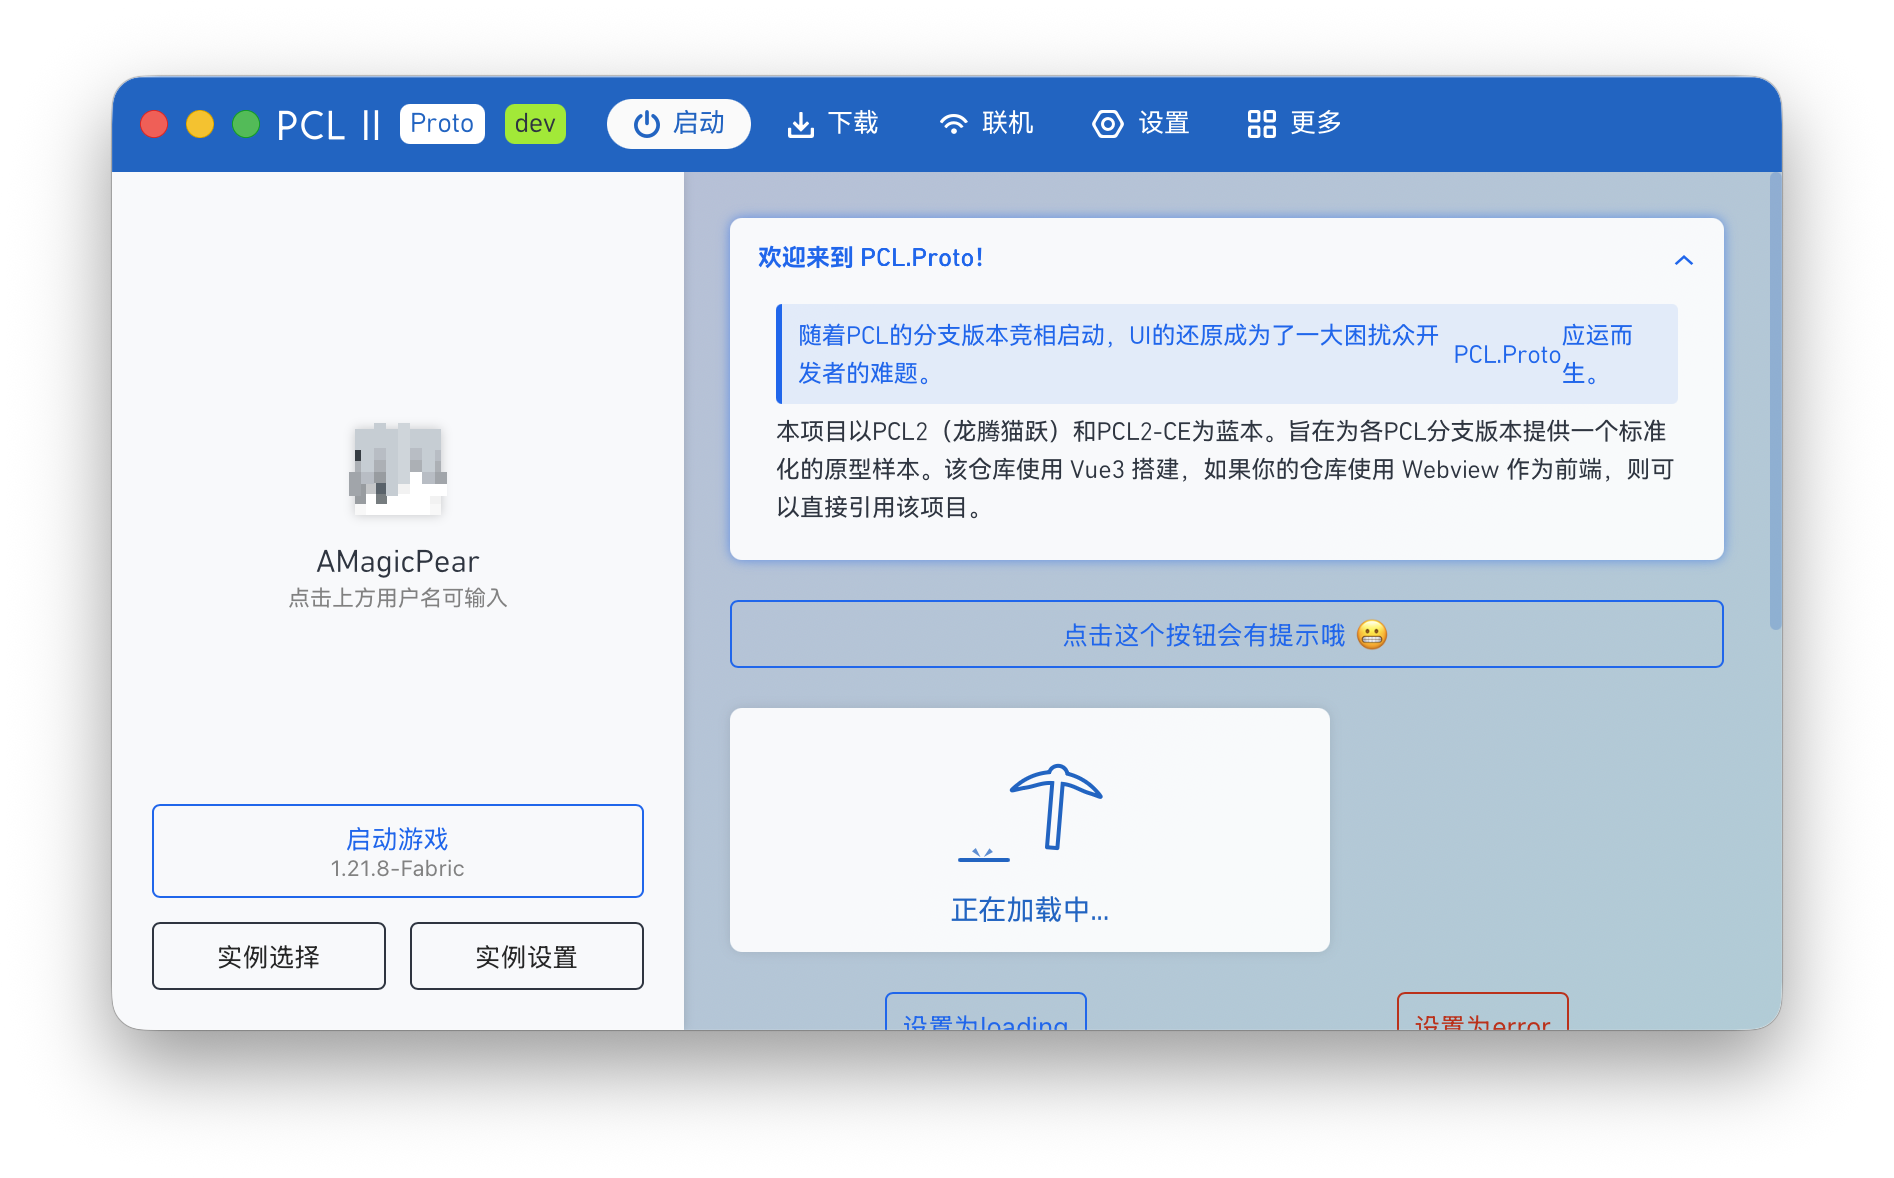
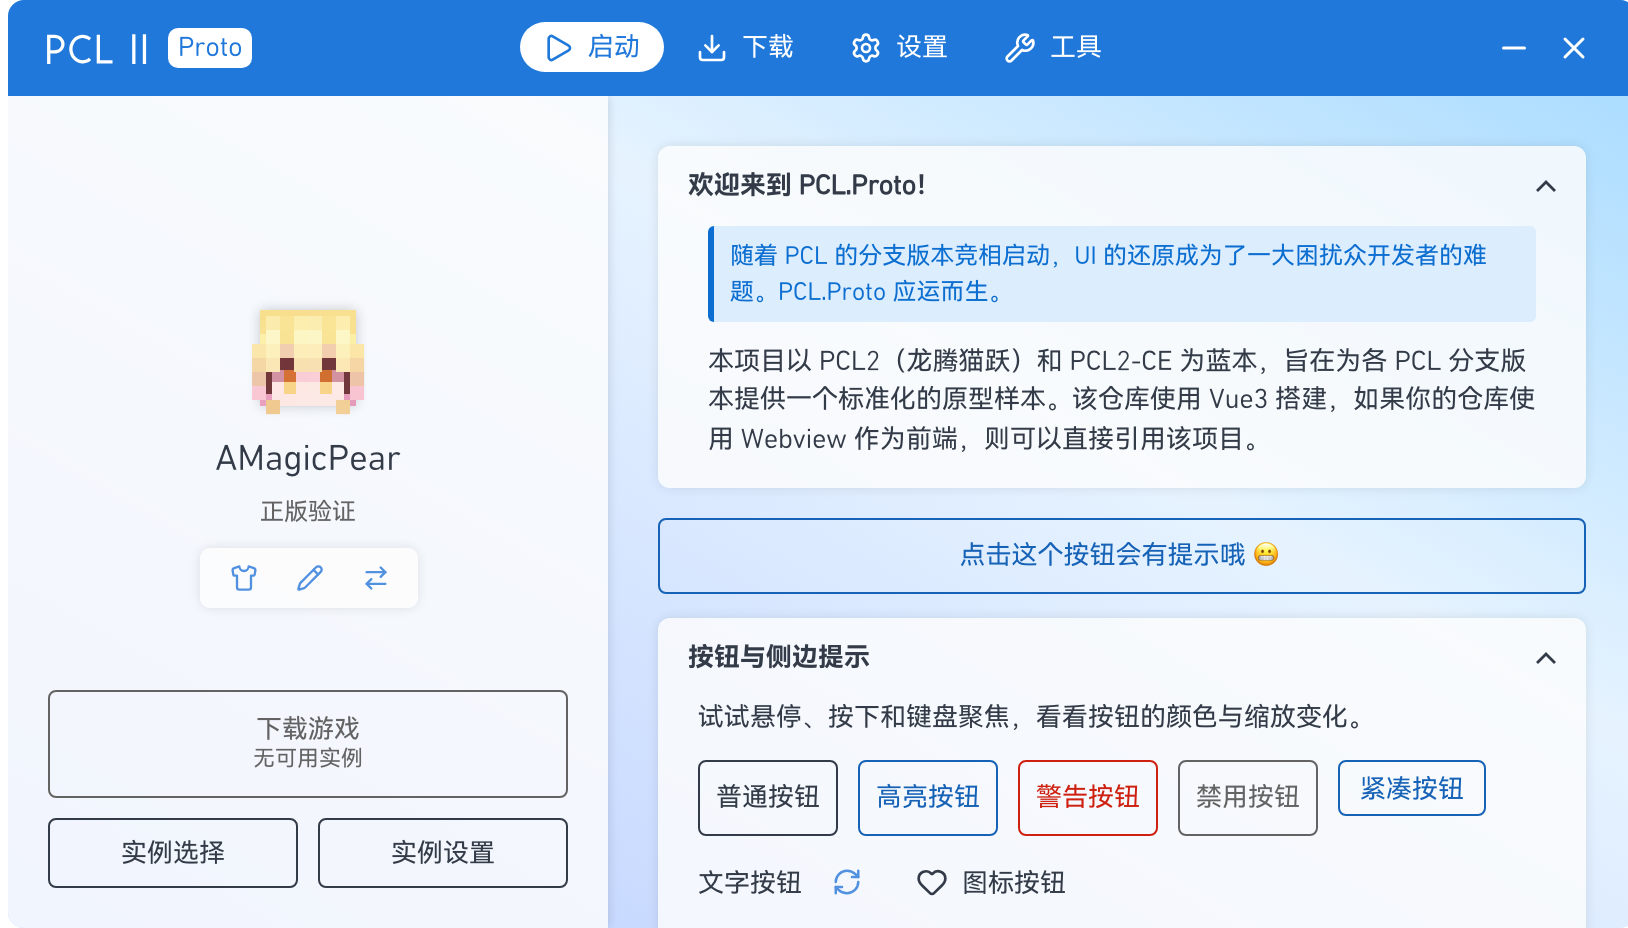
chore: 优化一些外观

diff --git a/src/views/Home/PageLaunchRight.vue b/src/views/Home/PageLaunchRight.vue
@@ -1,6 +1,7 @@
 <script setup lang="ts">
 import { pclText } from '@/api/pclLocale'
-import { computed, onBeforeUnmount, ref, watch } from 'vue'
+import { computed, defineAsyncComponent, onBeforeUnmount, ref, watch } from 'vue'
+import { isTauri } from '@tauri-apps/api/core'
 import { appearance } from '@/api/appearance'
 import {
   cachedHomepage,
@@ -11,7 +12,6 @@ import {
 } from '@/api/customHomepage'
 import { parseHomepage } from '@/util/homepageXaml'
 import PCustomHomepage from '@/components/widget/PCustomHomepage.vue'
-import PButton from '@/components/widget/PButton.vue'
 import PLoading from '@/components/widget/PLoading.vue'
 import PageHomepageNewsView from './PageHomepageNewsView.vue'
 import PHint from '@/components/widget/PHint.vue'
@@ -19,7 +19,10 @@ import PCard from '@/components/widget/PCard.vue'
 defineProps<{ launchLog?: string }>()
 
 const text = pclText
+const website = !isTauri()
+const ComponentShowcase = defineAsyncComponent(() => import('@/components/website/ComponentShowcase.vue'))
 const mode = computed(() => appearance.values.UiCustomType)
+const welcome = computed(() => mode.value === '3' && appearance.values.ComboCustomPreset === 'proto')
 const officialFeed = computed(
   () => mode.value === '3' && appearance.values.ComboCustomPreset === '15',
 )
@@ -47,7 +50,7 @@ watch(
       appearance.values.TextCustomNet === previous[1] &&
       appearance.values.ComboCustomPreset === previous[2]
     if (!sameSource) source.value = undefined
-    if (mode.value === '0' || officialFeed.value) {
+    if (website || mode.value === '0' || welcome.value || officialFeed.value) {
       loading.value = false
       return
     }
@@ -85,31 +88,32 @@ onBeforeUnmount(() => {
 </script>
 <template>
   <section class="pcl-page">
-    <template v-if="mode !== '0'">
+    <PCard v-if="website || welcome" :title="text('Proto.About.Welcome')" default-fold-status="unfold">
+      <div class="proto-introduction">
+        <PHint severity="info">{{ text('Proto.About.Intro') }}</PHint>
+        <p>{{ text('Proto.About.Description') }}</p>
+      </div>
+    </PCard>
+    <template v-if="!website && mode !== '0' && !welcome">
       <PLoading
         v-if="loading && source === undefined"
         :loading-text="text('Launch.Homepage.Loading')"
       />
       <PHint v-if="error" severity="error">{{ error }}</PHint>
-      <div class="homepage-actions">
-        <PButton compact :disabled="loading" @click="homepageRevision++">{{
-          text('Setup.Ui.Homepage.Refresh')
-        }}</PButton>
-        <PButton compact @click="$router.push('/homepageeditor')">{{
-          text('Proto.Title.HomepageEditor')
-        }}</PButton>
-      </div>
       <PageHomepageNewsView v-if="officialFeed" embedded />
       <PCustomHomepage v-if="source !== undefined" :source="source" />
     </template>
     <PCard v-if="launchLog" :title="text('Launch.Right.Log.Title')">
       <pre class="launch-log">{{ launchLog }}</pre>
     </PCard>
+    <ComponentShowcase v-if="website" />
   </section>
 </template>
 <style scoped>
-.homepage-actions {
+.proto-introduction {
+  padding: 0 25px 15px;
   display: flex;
+  flex-direction: column;
   gap: 10px;
 }
 .launch-log {

diff --git a/src/views/Home/PageLoginProfileSkin.vue b/src/views/Home/PageLoginProfileSkin.vue
@@ -1,11 +1,11 @@
 <script setup lang="ts">
 import { computed, ref } from 'vue'
-import { invoke } from '@tauri-apps/api/core'
+import { invoke, isTauri } from '@tauri-apps/api/core'
 import { open, save } from '@tauri-apps/plugin-dialog'
 import PSkin from '@/components/widget/PSkin.vue'
 import PSvgIcon from '@/components/widget/PSvgIcon.vue'
 import PCard from '@/components/widget/PCard.vue'
-import { useAccountInfo, toAuthFailure } from '@/stores/account'
+import { useAccountInfo, toAuthFailure, type McProfile } from '@/stores/account'
 import type { ProfileView } from '@/types/profile'
 import { pclText } from '@/api/pclLocale'
 import { popupNativeMenu, type NativeMenuItem } from '@/util/nativeMenu'
@@ -15,6 +15,7 @@ import { dialog, loginUrls } from '@/util/loginErrors'
 import sideTip from '@/composables/sideTip'
 import { useModal } from '@/composables/useModal'
 import { ModalWidthVariant } from '@/types/modal'
+import { showUnavailable } from '@/util/showUnavailable'
 
 const account = useAccountInfo()
 const emit = defineEmits<{ view: [view: ProfileView] }>()
@@ -22,7 +23,11 @@ const text = pclText
 const modal = useModal()
 const busy = ref(false)
 
-const profile = computed(() => account.profile)
+const website = !isTauri()
+const profile = computed<McProfile | null>(() => website ? {
+  profileId: 'website', userName: 'AMagicPear', uuid: '31bbe5379fea4e68aa4ad7aacca23d13',
+  tokenType: '', profileType: 'microsoft', description: '', skinHeadId: '',
+} : account.profile)
 // CE：离线档案不显示“修改信息”按钮。
 const canEdit = computed(() => !!profile.value && profile.value.profileType !== 'offline')
 
@@ -210,6 +215,10 @@ async function editUsername() {
 
 /** 对照 CE 的 `ChangeProfile`：清空当前档案并回到档案列表。 */
 async function switchProfile() {
+  if (website) {
+    void showUnavailable()
+    return
+  }
   await account.select(null)
   emit('view', 'profiles')
 }
@@ -241,6 +250,10 @@ function runAction(action: string) {
 }
 
 async function openMenu(event: MouseEvent, actions: readonly string[]) {
+  if (website) {
+    void showUnavailable()
+    return
+  }
   const items: NativeMenuItem[] = actions.map((action) => ({
     text: text(`Launch.Account.ProfileSkin.${action}`),
     action: () => runAction(action),
@@ -254,8 +267,8 @@ async function openMenu(event: MouseEvent, actions: readonly string[]) {
 </script>
 <template>
   <div v-if="profile" class="profile-skin">
-    <PSkin class="profile-avatar" :skin-url="account.skinFor(profile.profileId)" /><strong>{{
-      profile.userName || 'Player'
+    <PSkin class="profile-avatar" :skin-url="website ? 'https://minotar.net/skin/AMagicPear' : account.skinFor(profile?.profileId)" /><strong>{{
+      profile?.userName || 'Player'
     }}</strong
     ><span>{{ getProfileInfo(profile) }}</span>
     <div class="profile-actions-reveal">

diff --git a/src/util/cardResize.ts b/src/util/cardResize.ts
@@ -1,13 +1,17 @@
 type CardState = {
   card: HTMLElement
+  inner: HTMLElement
+  innerHeight?: number
   height?: number
   animation?: Animation
 }
 
 const cards = new WeakMap<Element, CardState>()
 const animating = new Set<CardState>()
+const changed = new Map<CardState, boolean>()
 let observer: ResizeObserver | undefined
 let reducedMotion: MediaQueryList | undefined
+let frame = 0
 
 function motionPreference() {
   if (!reducedMotion) {
@@ -25,26 +29,32 @@ function motionPreference() {
 }
 
 function resizeCards(entries: ResizeObserverEntry[]) {
-  const writes: (() => void)[] = []
-  const scheduled = new Set<CardState>()
-  const changed = new Map<CardState, boolean>()
   for (const entry of entries) {
     const state = cards.get(entry.target)
     if (!state) continue
     changed.set(state, changed.get(state) || entry.target !== state.card)
   }
+  if (changed.size && !frame) frame = requestAnimationFrame(animateCards)
+}
+
+function animateCards() {
+  frame = 0
+  const writes: (() => void)[] = []
+  const scheduled = new Set<CardState>()
   const ordered = [...changed].sort(([a], [b]) =>
     a.card.contains(b.card) ? 1 : b.card.contains(a.card) ? -1 : 0,
   )
+  changed.clear()
   for (const [state, innerChanged] of ordered) {
     const { card } = state
-    if (state.animation && !innerChanged) continue
+    if (state.animation && (!innerChanged || state.innerHeight === state.inner.offsetHeight)) continue
     const from = state.animation ? card.offsetHeight : state.height
     state.animation?.cancel()
     state.animation = undefined
     animating.delete(state)
     const height = card.offsetHeight
     state.height = height
+    state.innerHeight = state.inner.offsetHeight
     if (
       from === undefined ||
       from === 0 ||
@@ -79,7 +89,7 @@ function resizeCards(entries: ResizeObserverEntry[]) {
 
 export function observeCardResize(inner: HTMLElement, card: HTMLElement) {
   observer ||= new ResizeObserver(resizeCards)
-  const state: CardState = { card }
+  const state: CardState = { card, inner }
   cards.set(inner, state)
   cards.set(card, state)
   observer.observe(inner)
@@ -89,7 +99,20 @@ export function observeCardResize(inner: HTMLElement, card: HTMLElement) {
     observer?.unobserve(card)
     cards.delete(inner)
     cards.delete(card)
+    changed.delete(state)
+    if (!changed.size && frame) {
+      cancelAnimationFrame(frame)
+      frame = 0
+    }
     state.animation?.cancel()
     animating.delete(state)
   }
+}
+
+export function updateCardResize(card: HTMLElement) {
+  const state = cards.get(card)
+  if (!state) return
+  changed.set(state, true)
+  if (frame) cancelAnimationFrame(frame)
+  animateCards()
 }

diff --git a/src/views/Home/PageLaunchLeft.vue b/src/views/Home/PageLaunchLeft.vue
@@ -12,7 +12,7 @@ import { useLoginSession } from '@/composables/useLoginSession'
 import { getProfileTypeLabel } from '@/util/profile'
 import { useRouter } from 'vue-router'
 import type { ProfileView } from '@/types/profile'
-import { Channel, invoke } from '@tauri-apps/api/core'
+import { Channel, invoke, isTauri } from '@tauri-apps/api/core'
 import { prepareGameJava, downloadGameJava } from '@/api/javaReq'
 import { useModal } from '@/composables/useModal'
 import { computed, ref, watch } from 'vue'
@@ -28,6 +28,7 @@ const router = useRouter()
 const instance = useSelectedInstance()
 const account = useAccountInfo()
 const text = pclText
+const website = !isTauri()
 const profileView = ref<ProfileView>(account.profile ? 'skin' : 'profiles')
 const accountViews = {
   skin: PageLoginProfileSkin,
@@ -36,7 +37,7 @@ const accountViews = {
   microsoft: PageLoginMs,
   auth: PageLoginAuth,
 }
-const accountView = computed(() => accountViews[profileView.value])
+const accountView = computed(() => (website ? PageLoginProfileSkin : accountViews[profileView.value]))
 // CE 的 RefreshPage：选中档案时显示皮肤页，没有档案时显示档案列表。
 watch(
   () => account.currentId,

diff --git a/src/components/widget/PCard.vue b/src/components/widget/PCard.vue
@@ -1,7 +1,7 @@
 <script lang="ts" setup>
 import { ref, useAttrs, useTemplateRef, watch } from 'vue'
 import IconUnfold from '../icons/control/IconUnfold.vue'
-import { observeCardResize } from '@/util/cardResize'
+import { observeCardResize, updateCardResize } from '@/util/cardResize'
 
 export type FoldStatus = 'unfold' | 'fold' | 'unfoldable'
 export type FoldArrow = 'down' | 'right'
@@ -63,6 +63,10 @@ watch(
   },
   { flush: 'post' },
 )
+
+watch(foldState, () => {
+  if (cardRef.value) updateCardResize(cardRef.value)
+}, { flush: 'post' })
 </script>
 
 <template>

diff --git a/src/api/customHomepage.ts b/src/api/customHomepage.ts
@@ -5,6 +5,7 @@ import { homepageLimit, homepageUrl, parseHomepage } from '@/util/homepageXaml'
 
 export const homepageRevision = ref(0)
 export const homepagePresets = [
+  { key: 'proto', name: 'Proto' },
   { key: '0', name: 'Trivia' },
   { key: '2', name: 'McNews', url: 'https://news.bugjump.net' },
   { key: '3', name: 'DailyModpack', url: 'https://pclsub.sodamc.com/' },

diff --git a/src/views/Setup/PageSetupUI.vue b/src/views/Setup/PageSetupUI.vue
@@ -31,7 +31,7 @@ const homepageOptions = [
 const homepagePresetOptions = computed(() =>
   homepagePresets.map((preset) => ({
     key: preset.key,
-    text: pclText(`Setup.Ui.Homepage.Preset.${preset.name}`),
+    text: pclText(preset.key === 'proto' ? 'Proto.About.Welcome' : `Setup.Ui.Homepage.Preset.${preset.name}`),
   })),
 )
 function setHomepageType(value: string) {
